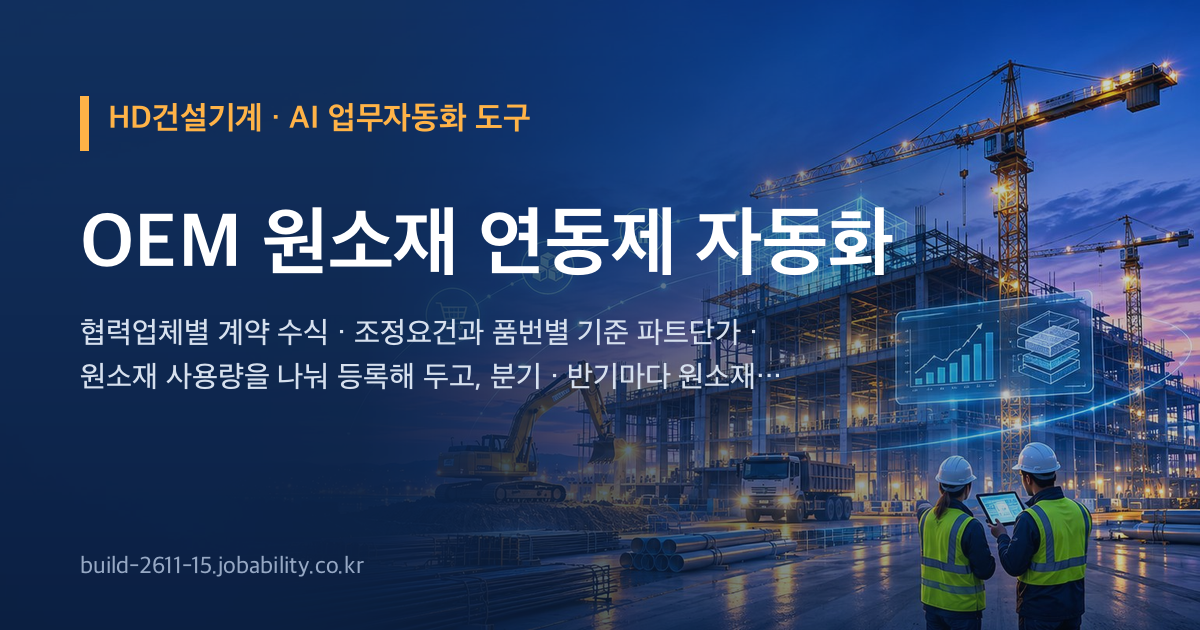
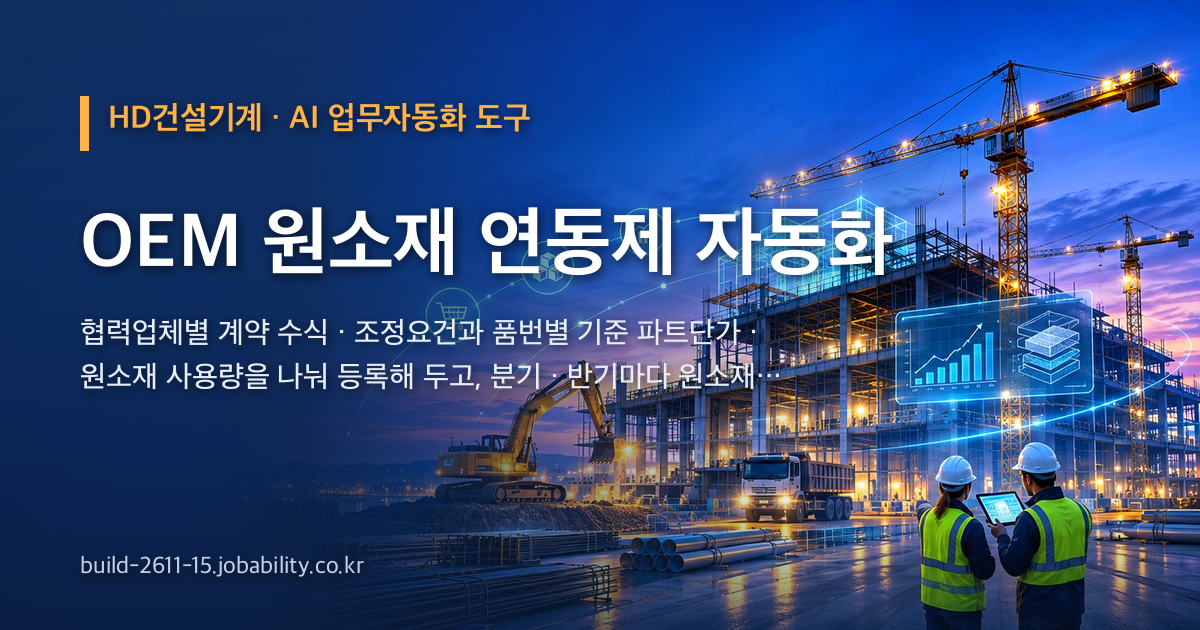
공유 그림 다시(사진 또렷하게) · 판 2026-11-13.12

diff --git a/index.html b/index.html
@@ -12,8 +12,8 @@
 <meta property="og:title" content="HD건설기계 · OEM 원소재 연동제 자동화">
 <meta property="og:description" content="협력업체별 계약 수식 · 조정요건과 품번별 기준 파트단가 · 원소재 사용량을 나눠 등록해 두고, 분기 · 반기마다 원소재 Index 엑셀을 올리면 품번별 연동액과 변경 단가를 계산해 업체 요청단가와 비교하고 팀장 보고용 Word 문서를 만드는 브라우저 도구입니다. 자료는 이 브라우저에만">
 <meta property="og:url" content="https://build-2611-15.jobability.co.kr/">
-<meta property="og:image" content="https://build-2611-15.jobability.co.kr/og-image.png">
-<meta property="og:image:secure_url" content="https://build-2611-15.jobability.co.kr/og-image.png">
+<meta property="og:image" content="https://build-2611-15.jobability.co.kr/og-image.png?v=2">
+<meta property="og:image:secure_url" content="https://build-2611-15.jobability.co.kr/og-image.png?v=2">
 <meta property="og:image:type" content="image/png">
 <meta property="og:image:width" content="1200">
 <meta property="og:image:height" content="630">
@@ -22,7 +22,7 @@
 <meta name="twitter:card" content="summary_large_image">
 <meta name="twitter:title" content="HD건설기계 · OEM 원소재 연동제 자동화">
 <meta name="twitter:description" content="협력업체별 계약 수식 · 조정요건과 품번별 기준 파트단가 · 원소재 사용량을 나눠 등록해 두고, 분기 · 반기마다 원소재 Index 엑셀을 올리면 품번별 연동액과 변경 단가를 계산해 업체 요청단가와 비교하고 팀장 보고용 Word 문서를 만드는 브라우저 도구입니다. 자료는 이 브라우저에만">
-<meta name="twitter:image" content="https://build-2611-15.jobability.co.kr/og-image.png">
+<meta name="twitter:image" content="https://build-2611-15.jobability.co.kr/og-image.png?v=2">
 <!-- /seo-kit -->
 <meta name="description" content="협력업체별 계약 수식 · 조정요건과 품번별 기준 파트단가 · 원소재 사용량을 나눠 등록해 두고, 분기 · 반기마다 원소재 Index 엑셀을 올리면 품번별 연동액과 변경 단가를 계산해 업체 요청단가와 비교하고 팀장 보고용 Word 문서를 만드는 브라우저 도구입니다. 자료는 이 브라우저에만 저장되고 서버로 올라가지 않습니다.">
 <link rel="icon" href="favicon.svg" type="image/svg+xml">
@@ -30,9 +30,9 @@
 <link rel="stylesheet" href="css/app.css">
 <!-- auth-kit: 로그인 전에는 도구 화면을 감춘다(js/auth.js 가 판정 뒤 푼다) -->
 <script>document.documentElement.classList.add('auth-lock')</script>
-<link rel="stylesheet" href="css/auth.css?v=2026-11-13.11">
-<link rel="stylesheet" href="css/board.css?v=2026-11-13.11">
-<link rel="stylesheet" href="css/kit-build.css?v=2026-11-13.11">
+<link rel="stylesheet" href="css/auth.css?v=2026-11-13.12">
+<link rel="stylesheet" href="css/board.css?v=2026-11-13.12">
+<link rel="stylesheet" href="css/kit-build.css?v=2026-11-13.12">
 <!-- /auth-kit -->
 </head>
 <body>
@@ -81,11 +81,11 @@
 <script src="js/template.js"></script>
 <script src="js/app.js"></script>
 <!-- auth-kit: 로그인 · 사용 신청 · 승인 · 게시판(키트 정본 data10-00/kit/auth, 적용 build-2611-00/tools/kit) -->
-<script src="vendor/supabase.js?v=2026-11-13.11"></script>
-<script src="js/auth-config.js?v=2026-11-13.11"></script>
-<script src="js/kit-build.js?v=2026-11-13.11"></script>
-<script src="js/board.js?v=2026-11-13.11"></script>
-<script src="js/auth.js?v=2026-11-13.11"></script>
+<script src="vendor/supabase.js?v=2026-11-13.12"></script>
+<script src="js/auth-config.js?v=2026-11-13.12"></script>
+<script src="js/kit-build.js?v=2026-11-13.12"></script>
+<script src="js/board.js?v=2026-11-13.12"></script>
+<script src="js/auth.js?v=2026-11-13.12"></script>
 <!-- /auth-kit -->
 </body>
 </html>

diff --git a/guide.html b/guide.html
@@ -12,8 +12,8 @@
 <meta property="og:title" content="사용법 — OEM 원소재 연동제 자동화">
 <meta property="og:description" content="협력업체별 계약 수식 · 조정요건과 품번별 기준 파트단가 · 원소재 사용량을 나눠 등록해 두고, 분기 · 반기마다 원소재 Index 엑셀을 올리면 품번별 연동액과 변경 단가를 계산해 업체 요청단가와 비교하고 팀장 보고용 Word 문서를 만드는 브라우저 도구입니다. 자료는 이 브라우저에만">
 <meta property="og:url" content="https://build-2611-15.jobability.co.kr/guide.html">
-<meta property="og:image" content="https://build-2611-15.jobability.co.kr/og-image.png">
-<meta property="og:image:secure_url" content="https://build-2611-15.jobability.co.kr/og-image.png">
+<meta property="og:image" content="https://build-2611-15.jobability.co.kr/og-image.png?v=2">
+<meta property="og:image:secure_url" content="https://build-2611-15.jobability.co.kr/og-image.png?v=2">
 <meta property="og:image:type" content="image/png">
 <meta property="og:image:width" content="1200">
 <meta property="og:image:height" content="630">
@@ -22,7 +22,7 @@
 <meta name="twitter:card" content="summary_large_image">
 <meta name="twitter:title" content="사용법 — OEM 원소재 연동제 자동화">
 <meta name="twitter:description" content="협력업체별 계약 수식 · 조정요건과 품번별 기준 파트단가 · 원소재 사용량을 나눠 등록해 두고, 분기 · 반기마다 원소재 Index 엑셀을 올리면 품번별 연동액과 변경 단가를 계산해 업체 요청단가와 비교하고 팀장 보고용 Word 문서를 만드는 브라우저 도구입니다. 자료는 이 브라우저에만">
-<meta name="twitter:image" content="https://build-2611-15.jobability.co.kr/og-image.png">
+<meta name="twitter:image" content="https://build-2611-15.jobability.co.kr/og-image.png?v=2">
 <!-- /seo-kit -->
 <link rel="icon" href="favicon.svg" type="image/svg+xml">
 <link rel="stylesheet" href="css/style.css">

diff --git a/plan.html b/plan.html
@@ -12,8 +12,8 @@
 <meta property="og:title" content="기획서 — OEM 원소재 연동제 자동화">
 <meta property="og:description" content="협력업체별 계약 수식 · 조정요건과 품번별 기준 파트단가 · 원소재 사용량을 나눠 등록해 두고, 분기 · 반기마다 원소재 Index 엑셀을 올리면 품번별 연동액과 변경 단가를 계산해 업체 요청단가와 비교하고 팀장 보고용 Word 문서를 만드는 브라우저 도구입니다. 자료는 이 브라우저에만">
 <meta property="og:url" content="https://build-2611-15.jobability.co.kr/plan.html">
-<meta property="og:image" content="https://build-2611-15.jobability.co.kr/og-image.png">
-<meta property="og:image:secure_url" content="https://build-2611-15.jobability.co.kr/og-image.png">
+<meta property="og:image" content="https://build-2611-15.jobability.co.kr/og-image.png?v=2">
+<meta property="og:image:secure_url" content="https://build-2611-15.jobability.co.kr/og-image.png?v=2">
 <meta property="og:image:type" content="image/png">
 <meta property="og:image:width" content="1200">
 <meta property="og:image:height" content="630">
@@ -22,7 +22,7 @@
 <meta name="twitter:card" content="summary_large_image">
 <meta name="twitter:title" content="기획서 — OEM 원소재 연동제 자동화">
 <meta name="twitter:description" content="협력업체별 계약 수식 · 조정요건과 품번별 기준 파트단가 · 원소재 사용량을 나눠 등록해 두고, 분기 · 반기마다 원소재 Index 엑셀을 올리면 품번별 연동액과 변경 단가를 계산해 업체 요청단가와 비교하고 팀장 보고용 Word 문서를 만드는 브라우저 도구입니다. 자료는 이 브라우저에만">
-<meta name="twitter:image" content="https://build-2611-15.jobability.co.kr/og-image.png">
+<meta name="twitter:image" content="https://build-2611-15.jobability.co.kr/og-image.png?v=2">
 <!-- /seo-kit -->
 <link rel="icon" href="favicon.svg" type="image/svg+xml">
 <link rel="stylesheet" href="css/style.css">

diff --git a/report.html b/report.html
@@ -12,8 +12,8 @@
 <meta property="og:title" content="평가보고서 — OEM 원소재 연동제 자동화">
 <meta property="og:description" content="OEM 원소재 연동제 자동화 점검 · 평가보고서(2026-11-13) — 사이트 점검, 기능과 시험, 인계 준비, 판 이력, 한계.">
 <meta property="og:url" content="https://build-2611-15.jobability.co.kr/report.html">
-<meta property="og:image" content="https://build-2611-15.jobability.co.kr/og-image.png">
-<meta property="og:image:secure_url" content="https://build-2611-15.jobability.co.kr/og-image.png">
+<meta property="og:image" content="https://build-2611-15.jobability.co.kr/og-image.png?v=2">
+<meta property="og:image:secure_url" content="https://build-2611-15.jobability.co.kr/og-image.png?v=2">
 <meta property="og:image:type" content="image/png">
 <meta property="og:image:width" content="1200">
 <meta property="og:image:height" content="630">
@@ -22,7 +22,7 @@
 <meta name="twitter:card" content="summary_large_image">
 <meta name="twitter:title" content="평가보고서 — OEM 원소재 연동제 자동화">
 <meta name="twitter:description" content="OEM 원소재 연동제 자동화 점검 · 평가보고서(2026-11-13) — 사이트 점검, 기능과 시험, 인계 준비, 판 이력, 한계.">
-<meta name="twitter:image" content="https://build-2611-15.jobability.co.kr/og-image.png">
+<meta name="twitter:image" content="https://build-2611-15.jobability.co.kr/og-image.png?v=2">
 <!-- /seo-kit -->
 <meta name="description" content="OEM 원소재 연동제 자동화 점검 · 평가보고서(2026-11-13) — 사이트 점검, 기능과 시험, 인계 준비, 판 이력, 한계.">
 <link rel="icon" href="favicon.svg" type="image/svg+xml">
